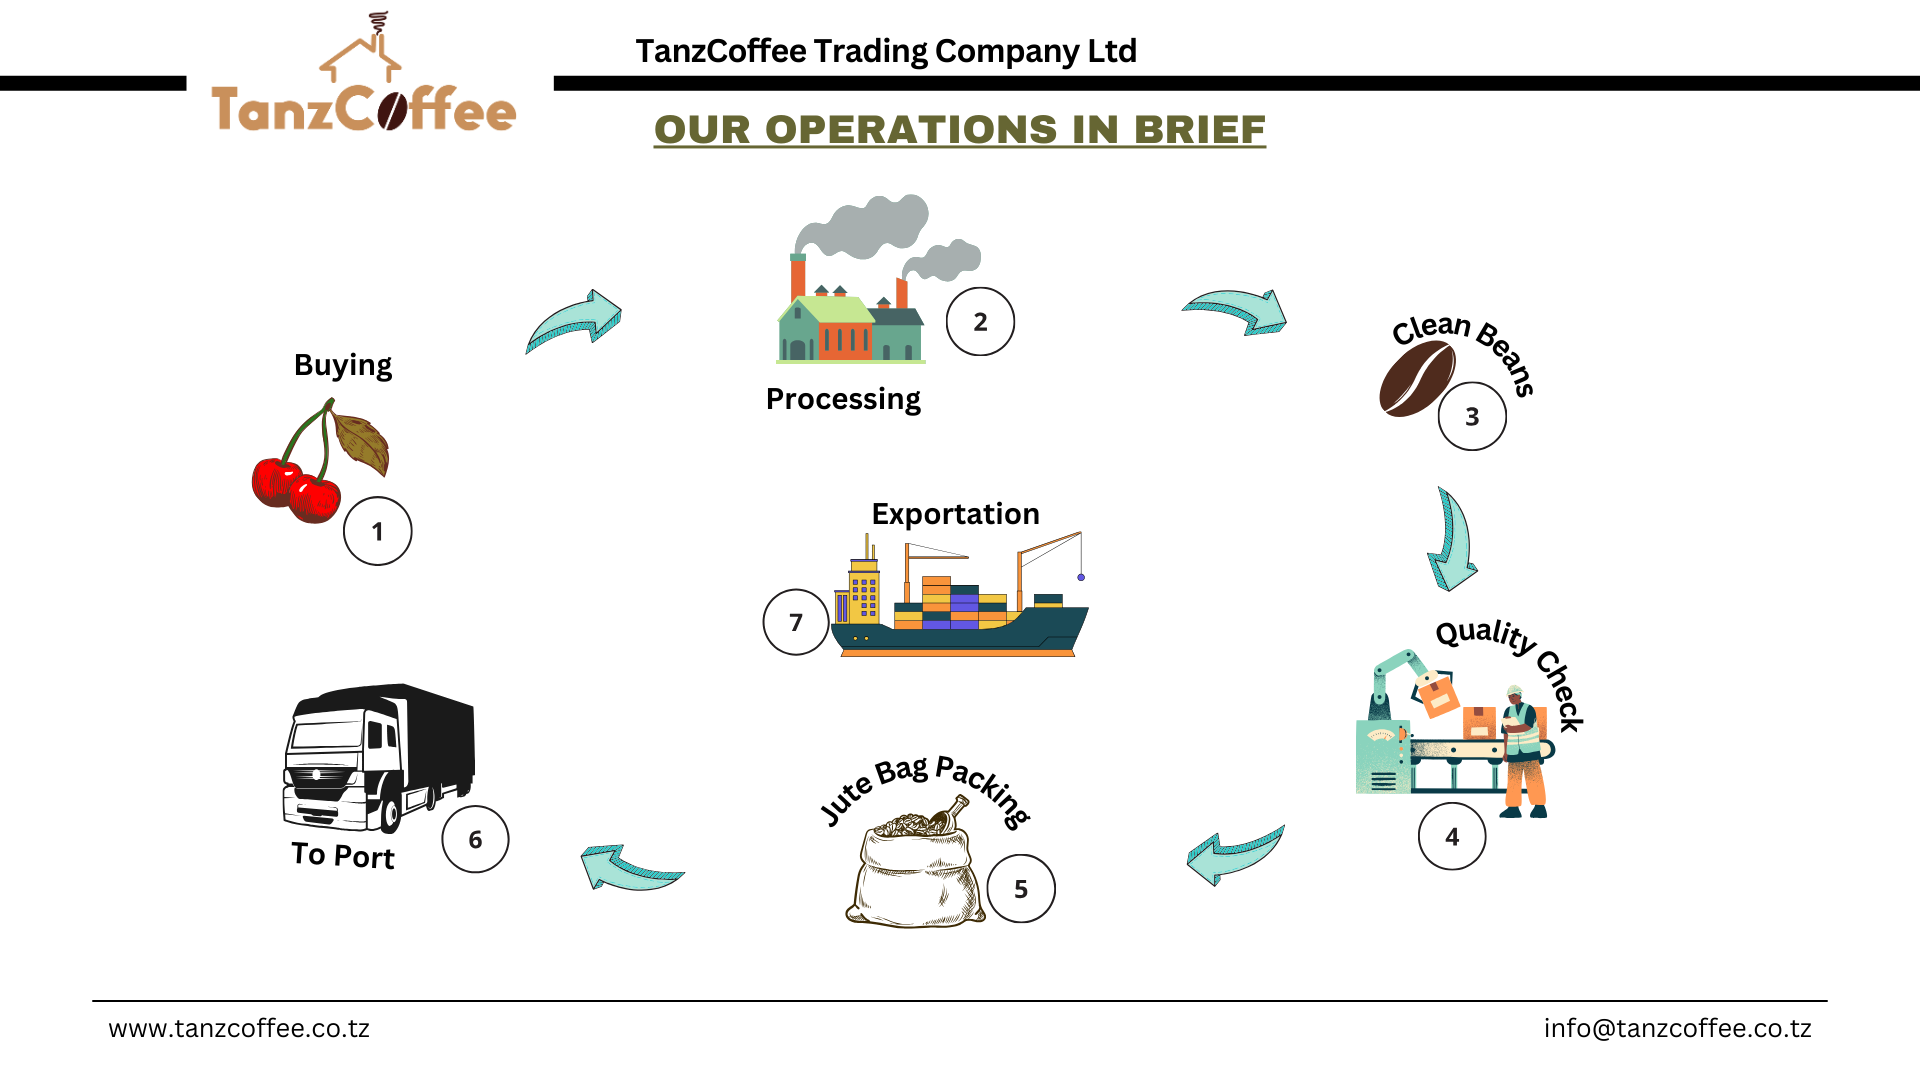
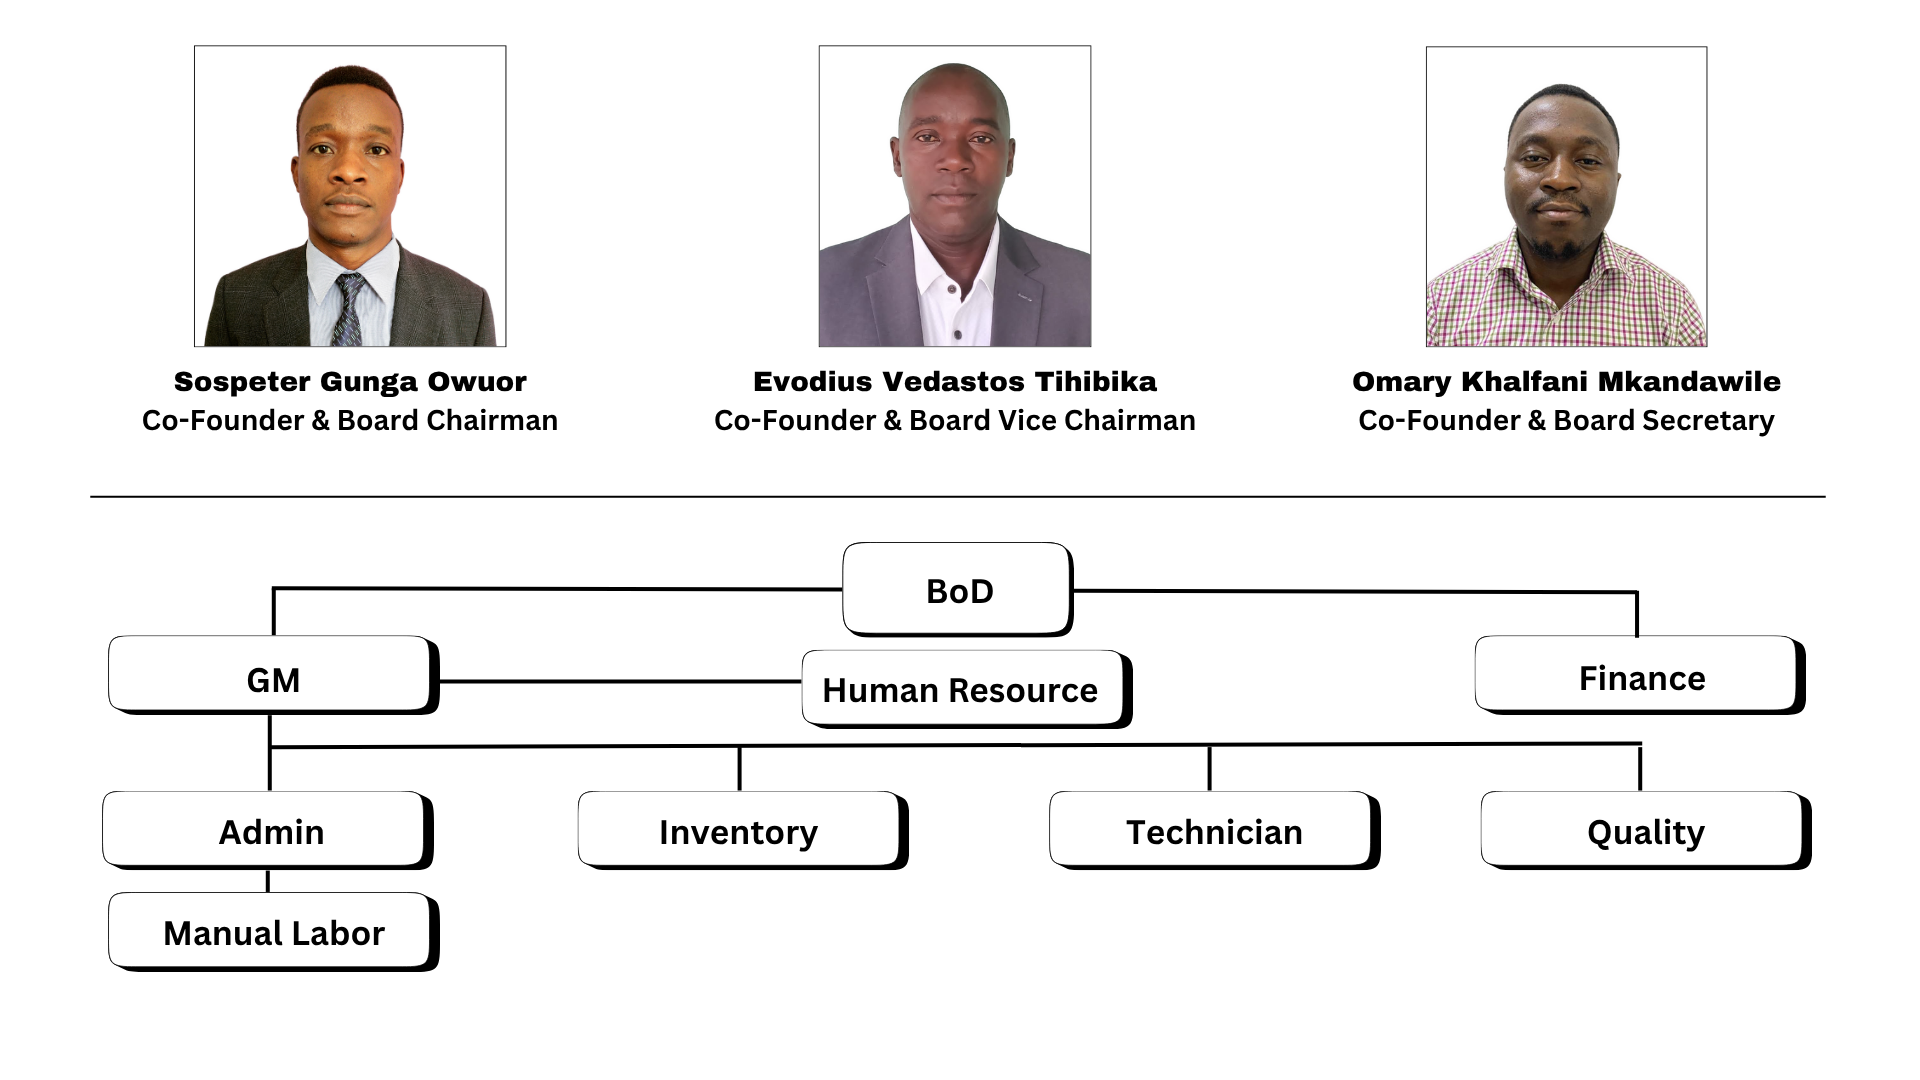
17 update

diff --git a/src/pages/MainApp/AboutUs.jsx b/src/pages/MainApp/AboutUs.jsx
@@ -2,6 +2,7 @@ import React from 'react'
 import SospeterPic from '../../assets/20251016_235737.png';
 import EvodiusPic from '../../assets/Evodius.png';
 import OmaryPic from '../../assets/Omary.png';
+import TanzCoffee_Investor_Deck from '../../assets/TanzCoffee_Investor_Deck.png';
 import { FaRegEye } from 'react-icons/fa6';
 import { GiDiamondHard, GiFlyingFlag } from 'react-icons/gi';
 
@@ -170,6 +171,7 @@ export default function AboutUs() {
          alignItems:'center', justifyContent:'center', gap:'20px'}}
           className='opacityAnimation'
          >
+        <img style={{width:'100%', aspectRatio:1/0.5, objectFit:'100% 100%'}} src={TanzCoffee_Investor_Deck} alt='TanzCoffee_Investor_Deck'/>
         <div style={{fontSize:'50px', fontWeight:600}}>Sustainability Commitment</div>
         <div 
         style={{color:'rgba(185, 130, 12, 1)',width:"85vw", maxWidth:"700px",
